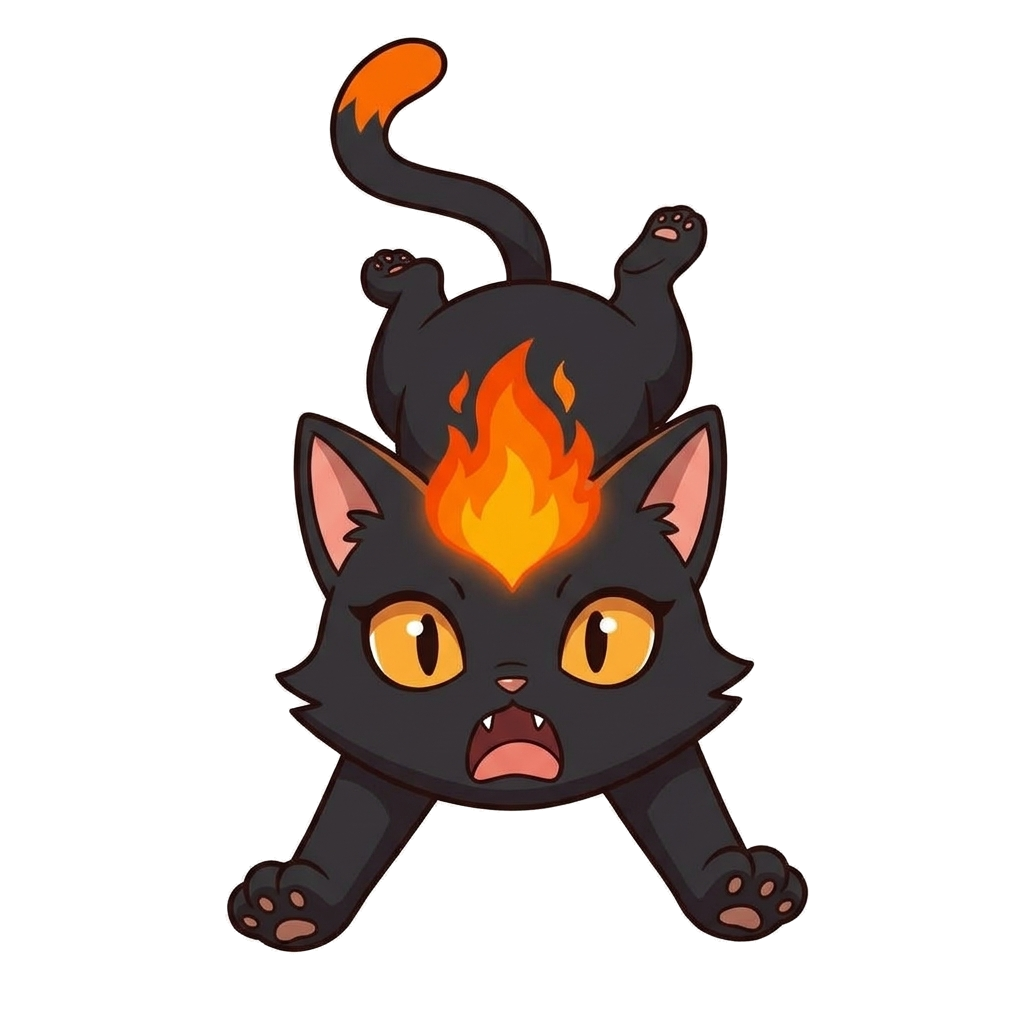
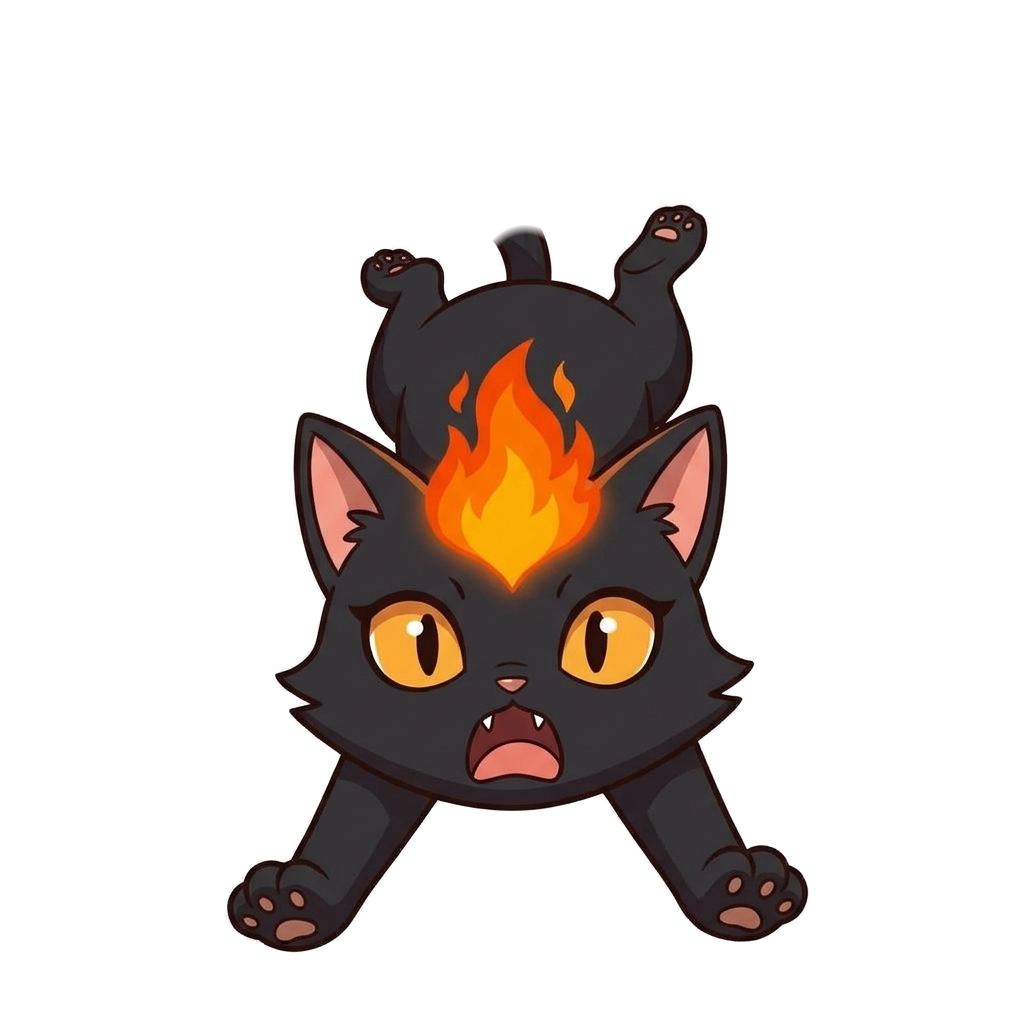
fix: animation smoothening

Changed region(s): [[0.3125, 0.0312, 0.5312, 0.25]]

diff --git a/src/renderer/avatar/parts-avatar.js b/src/renderer/avatar/parts-avatar.js
@@ -13,15 +13,17 @@
   // Tail sway [speed rad/s, amplitude rad] by animation; otherwise mood "happy" wags.
   const TAIL = {
     walk: [5, 0.14], run: [9, 0.2], sleep: [0.8, 0.04], sit: [1.2, 0.06], yawn: [1, 0.05],
-    fall: [12, 0.25], dragged: [12, 0.22], startled: [14, 0.25], climb: [4, 0.12], cling: [2, 0.1], greet: [3, 0.07], wake: [2.5, 0.12],
+    fall: [7, 0.3], dragged: [12, 0.22], startled: [14, 0.25], climb: [4, 0.12], descend: [4, 0.12], cling: [2, 0.1], greet: [3, 0.07], wake: [2.5, 0.12],
   };
   const QUADRUPED_SWING = 0.6; // four legs swing less than two
   const TURN_TIME = 0.18; // seconds a transition pose shows
+  const FADE_TIME = 0.12; // seconds one drawing dissolves into the next
   // Limb swing for pose drawings (the main drawing follows pose.js instead):
   // [speed rad/s, {limb: amplitude rad}, {limb: rest offset rad}]; limbs alternate
   // by the amplitude's sign.
   const GAIT = {
-    climb: [7, { armL: 0.22, legL: -0.28, legR: 0.28 }],
+    climb: [7, { armL: 0.14, legL: -0.18, legR: 0.18 }],
+    descend: [6, { armL: 0.14, legL: -0.18, legR: 0.18 }], // backwards, with the climb drawing
     cling: [2, { armL: 0.04, legL: 0.06, legR: -0.06 }],
     greet: [9, { armR: 0.26 }, { armR: 0.12 }], // waves outward, never behind the head
   };
@@ -30,12 +32,12 @@
   const sin = Math.sin;
   const MOTION = {
     climb: (T) => ({ y: -Math.abs(sin(T * 7)) * 4, rot: sin(T * 7) * 0.03 }),
-    descend: (T) => ({ y: Math.abs(sin(T * 8)) * 3, rot: sin(T * 8) * 0.04 }),
+    descend: (T) => ({ y: Math.abs(sin(T * 6)) * 4, rot: sin(T * 6) * 0.03 }),
     cling: (T) => ({ sy: 1 + sin(T * 2.2) * 0.015, rot: sin(T * 1.1) * 0.025 }),
-    fall: (T) => ({ rot: sin(T * 13) * 0.14, sx: 1 + sin(T * 9) * 0.04, sy: 1 - sin(T * 9) * 0.04 }),
+    fall: (T) => ({ rot: sin(T * 4) * 0.06, y: sin(T * 7) * 1.5, sy: 1 + sin(T * 7) * 0.015 }),
     dragged: (T, p, vx) => ({ top: true, rot: Math.max(-0.5, Math.min(0.5, -vx * 0.0005)) + sin(T * 2.6) * 0.07 }),
     startled: (T) => ({ x: sin(T * 55) * 1.5, sy: 1 + Math.abs(sin(T * 12)) * 0.03 }),
-    run: (T) => ({ y: -Math.abs(sin(T * 11)) * 9, rot: sin(T * 11) * 0.07 }),
+    run: (T) => ({ y: -Math.abs(sin(T * 11)) * 9, rot: sin(T * 11) * 0.03 }),
     yawn: (T) => MOTION.sleep(T), // same breathing, so yawning into sleep is seamless
     wake: (T, p) => ({ sx: 1 + p.mouth * 0.04, sy: 1 - p.mouth * 0.03 }),
     sleep: (T) => ({ sx: 1 - sin(T * 1.2) * 0.01, sy: 1 + sin(T * 1.2) * 0.02 }),
@@ -111,6 +113,7 @@
       view: new PIXI.Container(),
       quadruped: !!spec.quadruped,
       still: !!spec.still,
+      lean: spec.lean ?? 1, // how much of the pose's lean to apply (a wide drawing needs less)
       facesLeft: !!spec.facesLeft,
       headTop: (top - feet[1]) * s,
       halfWidth: Math.max(...all.map((i) => Math.max(feet[0] - i.x, i.x + i.w - feet[0]))) * s * 0.8,
@@ -247,17 +250,32 @@
       this.prevAnim = s.anim;
       const rig = turn && this.T < turn.until ? turn.rig : this.byAnim[s.anim] || this.main;
       if (rig !== this.rig) {
-        this.rig.view.visible = false;
+        // The old drawing stays on top, frozen, and dissolves away over the new one.
+        if (this.fading) this.fading.view.visible = false;
+        this.fading = this.rig;
+        this.fadeT = 0;
+        this.body.setChildIndex(this.rig.view, this.body.children.length - 1);
         rig.view.visible = true;
+        rig.view.alpha = 1;
         this.rig = rig;
         this.faceKey = '';
+      }
+      if (this.fading) {
+        this.fadeT += dt;
+        const t = Math.min(1, this.fadeT / FADE_TIME);
+        this.fading.view.alpha = 1 - t;
+        if (t >= 1) {
+          this.fading.view.visible = false;
+          this.fading.view.alpha = 1;
+          this.fading = null;
+        }
       }
       const facing = (s.facing || 1) * (rig.facesLeft ? -1 : 1);
       this.root.scale.x = facing;
       // A `still` pose (curled up asleep) keeps its place: no bob, squash or lean.
       this.body.y = rig.still ? 0 : p.bob + p.sit * rig.sitDrop;
       this.body.scale.set(rig.still ? 1 : 2 - p.squash, rig.still ? 1 : p.squash);
-      this.body.rotation = rig.still ? 0 : p.lean;
+      this.body.rotation = rig.still ? 0 : p.lean * rig.lean;
       // Window speed, for the dangling swing.
       if (this.lastX !== null && dt > 0) this.vx += ((s.x - this.lastX) / dt - this.vx) * Math.min(1, dt * 8);
       this.lastX = s.x;

diff --git a/src/main/main.js b/src/main/main.js
@@ -8,6 +8,7 @@ const path = require('node:path');
 const { pathToFileURL } = require('node:url');
 const { app, BrowserWindow, Menu, globalShortcut, ipcMain, net, protocol, screen, shell } = require('electron');
 const { Brain } = require('../core/brain');
+const { STATES } = require('../core/states');
 const tasks = require('./tasks');
 
 const ROOT = path.resolve(__dirname, '..', '..');
@@ -157,13 +158,30 @@ ipcMain.on('mate:export-done', () => app.quit());
 // Add `-- --state=sleep` to force a state once the companion has landed, and
 // `--delay=300` (ms after forcing) to catch short states like land or startled.
 // `--anim=cling` shows an animation's art without the state (e.g. on the floor).
+// Wall states (climb, cling, descend) are forced on the right-hand wall.
 function captureSnapshot(file) {
   const arg = (name) => process.argv.find((a) => a.startsWith(`--${name}=`))?.slice(name.length + 3);
   const state = arg('state');
-  if (state) setTimeout(() => brain.send('force', { state }), 3000);
+  if (state) {
+    setTimeout(() => {
+      if (STATES[state]?.surface === 'wall') {
+        brain.pos.x = brain.rightX;
+        brain.pos.y = brain.floorY - 260;
+        brain.facing = 1;
+      }
+      brain.send('force', { state });
+    }, 3000);
+  }
+  // `--frames=12 --every=100` saves a burst (name_00.png, name_01.png, …) to check motion.
+  const frames = Number(arg('frames') || 1);
+  const every = Number(arg('every') || 100);
   setTimeout(async () => {
-    const image = await win.webContents.capturePage();
-    fs.writeFileSync(path.resolve(file), image.toPNG());
+    for (let i = 0; i < frames; i++) {
+      const image = await win.webContents.capturePage();
+      const out = frames > 1 ? file.replace(/(\.png)?$/, `_${String(i).padStart(2, '0')}.png`) : file;
+      fs.writeFileSync(path.resolve(out), image.toPNG());
+      if (i < frames - 1) await new Promise((r) => setTimeout(r, every));
+    }
     console.log(`snapshot written to ${path.resolve(file)} (state: ${brain.state})`);
     app.quit();
   }, 3000 + Number(arg('delay') || 2000));

diff --git a/test/brain.test.js b/test/brain.test.js
@@ -186,3 +186,15 @@ test('a click on the standing companion makes it happy', () => {
   run(b, DT, c);
   assert.equal(b.state, 'happy');
 });
+
+test('a nap lasts at least a minute even when not tired', () => {
+  const b = make(4);
+  landed(b);
+  b.send('force', { state: 'sleep' });
+  run(b, 3); // the yawn
+  assert.equal(b.state, 'sleep');
+  run(b, 55);
+  assert.equal(b.state, 'sleep');
+  run(b, 120);
+  assert.notEqual(b.state, 'sleep');
+});

diff --git a/src/core/states.js b/src/core/states.js
@@ -103,8 +103,9 @@ const STATES = {
   // Cursor reactions are handled specially while asleep (see Brain.react).
   sleep: {
     anim: 'sleep', surface: 'floor', interruptible: false,
+    enter(b) { b.data.until = b.rand(b.tuning.sleepMin, b.tuning.sleepMax); },
     update(b) {
-      if (b.energy >= 0.98 && b.stateTime > 20) return 'wake';
+      if (b.energy >= 0.98 && b.stateTime > b.data.until) return 'wake';
     },
   },
 

diff --git a/src/core/brain.js b/src/core/brain.js
@@ -13,7 +13,9 @@ const DEFAULT_TUNING = {
   runSpeed: 260,
   climbSpeed: 55,
   energyDrain: 1 / 420, // full → empty in ~7 min awake
-  energyRecover: 1 / 45,
+  energyRecover: 1 / 200, // empty → full in ~3 min asleep
+  sleepMin: 60, // s: even a nap when not tired lasts 1–2.5 min
+  sleepMax: 150,
   startleSpeed: 2200, // cursor px/s that counts as a sudden swipe
   startleRadius: 160,
   curiosityRadius: 480,

diff --git a/README.md b/README.md
@@ -50,8 +50,8 @@ Author: Anish Kuila
 
 **On launch** the cat drops in from the top of the screen, lands, and waves hello. From then on it lives on its own:
 
-- **Autonomous behavior:** it walks along the taskbar, sits, heads to a screen edge and climbs it, then hangs there for a while. It either climbs back down head first or lets go and falls.
-- **Getting tired:** an energy need drains while it's awake. As energy drops it yawns more often and eventually curls up to sleep. Going to sleep always plays the open-mouth yawn first, then the closed-eye sleep. When it's rested, or when you click it, it wakes with a long stretch.
+- **Autonomous behavior:** it walks along the taskbar, sits, heads to a screen edge and climbs it, then hangs there for a while. It either climbs back down backwards, the way real cats do, or lets go and falls.
+- **Getting tired:** an energy need drains while it's awake. As energy drops it yawns more often and eventually curls up to sleep for a few minutes. Going to sleep always plays the open-mouth yawn first, then the closed-eye sleep. When it's rested, or when you click it, it wakes with a long stretch.
 
 **It reacts to your cursor:**
 
@@ -69,7 +69,7 @@ Author: Anish Kuila
 
 - **Walking:** a side view whose four legs swing in a diagonal gait.
 - **Running:** a gallop.
-- **Climbing:** front paws and back legs alternate as it climbs.
+- **Climbing:** front paws and back legs alternate as it climbs, and step in reverse as it climbs down.
 - **Other poses:** startled, dangling, falling, landing, waving, yawning, sleeping and stretching each have their own drawing.
 - **Turning:** a three-quarter view flashes for a moment when it starts or stops walking, so it doesn't snap from facing you to side-on.
 
@@ -113,8 +113,8 @@ Counted directly from the codebase, not estimated:
 | Behavior states | 19 |
 | Animation names | 17 |
 | Avatar types | 3 (parts, Live2D, placeholder) |
-| AI-generated source images for the fire cat | 15 |
-| Pose drawings (per-animation rigs) | 12, plus 1 transition pose |
+| AI-generated source images for the fire cat | 15 (14 in use) |
+| Pose drawings (per-animation rigs) | 11, plus 1 transition pose |
 | PNG layers in the fire cat | 48 |
 | Cursor reactions | 4, plus click and drag/throw |
 | Task tools | 6 (`help`, `set_timer`, `get_time`, `open_url`, `web_search`, `behave`) |
